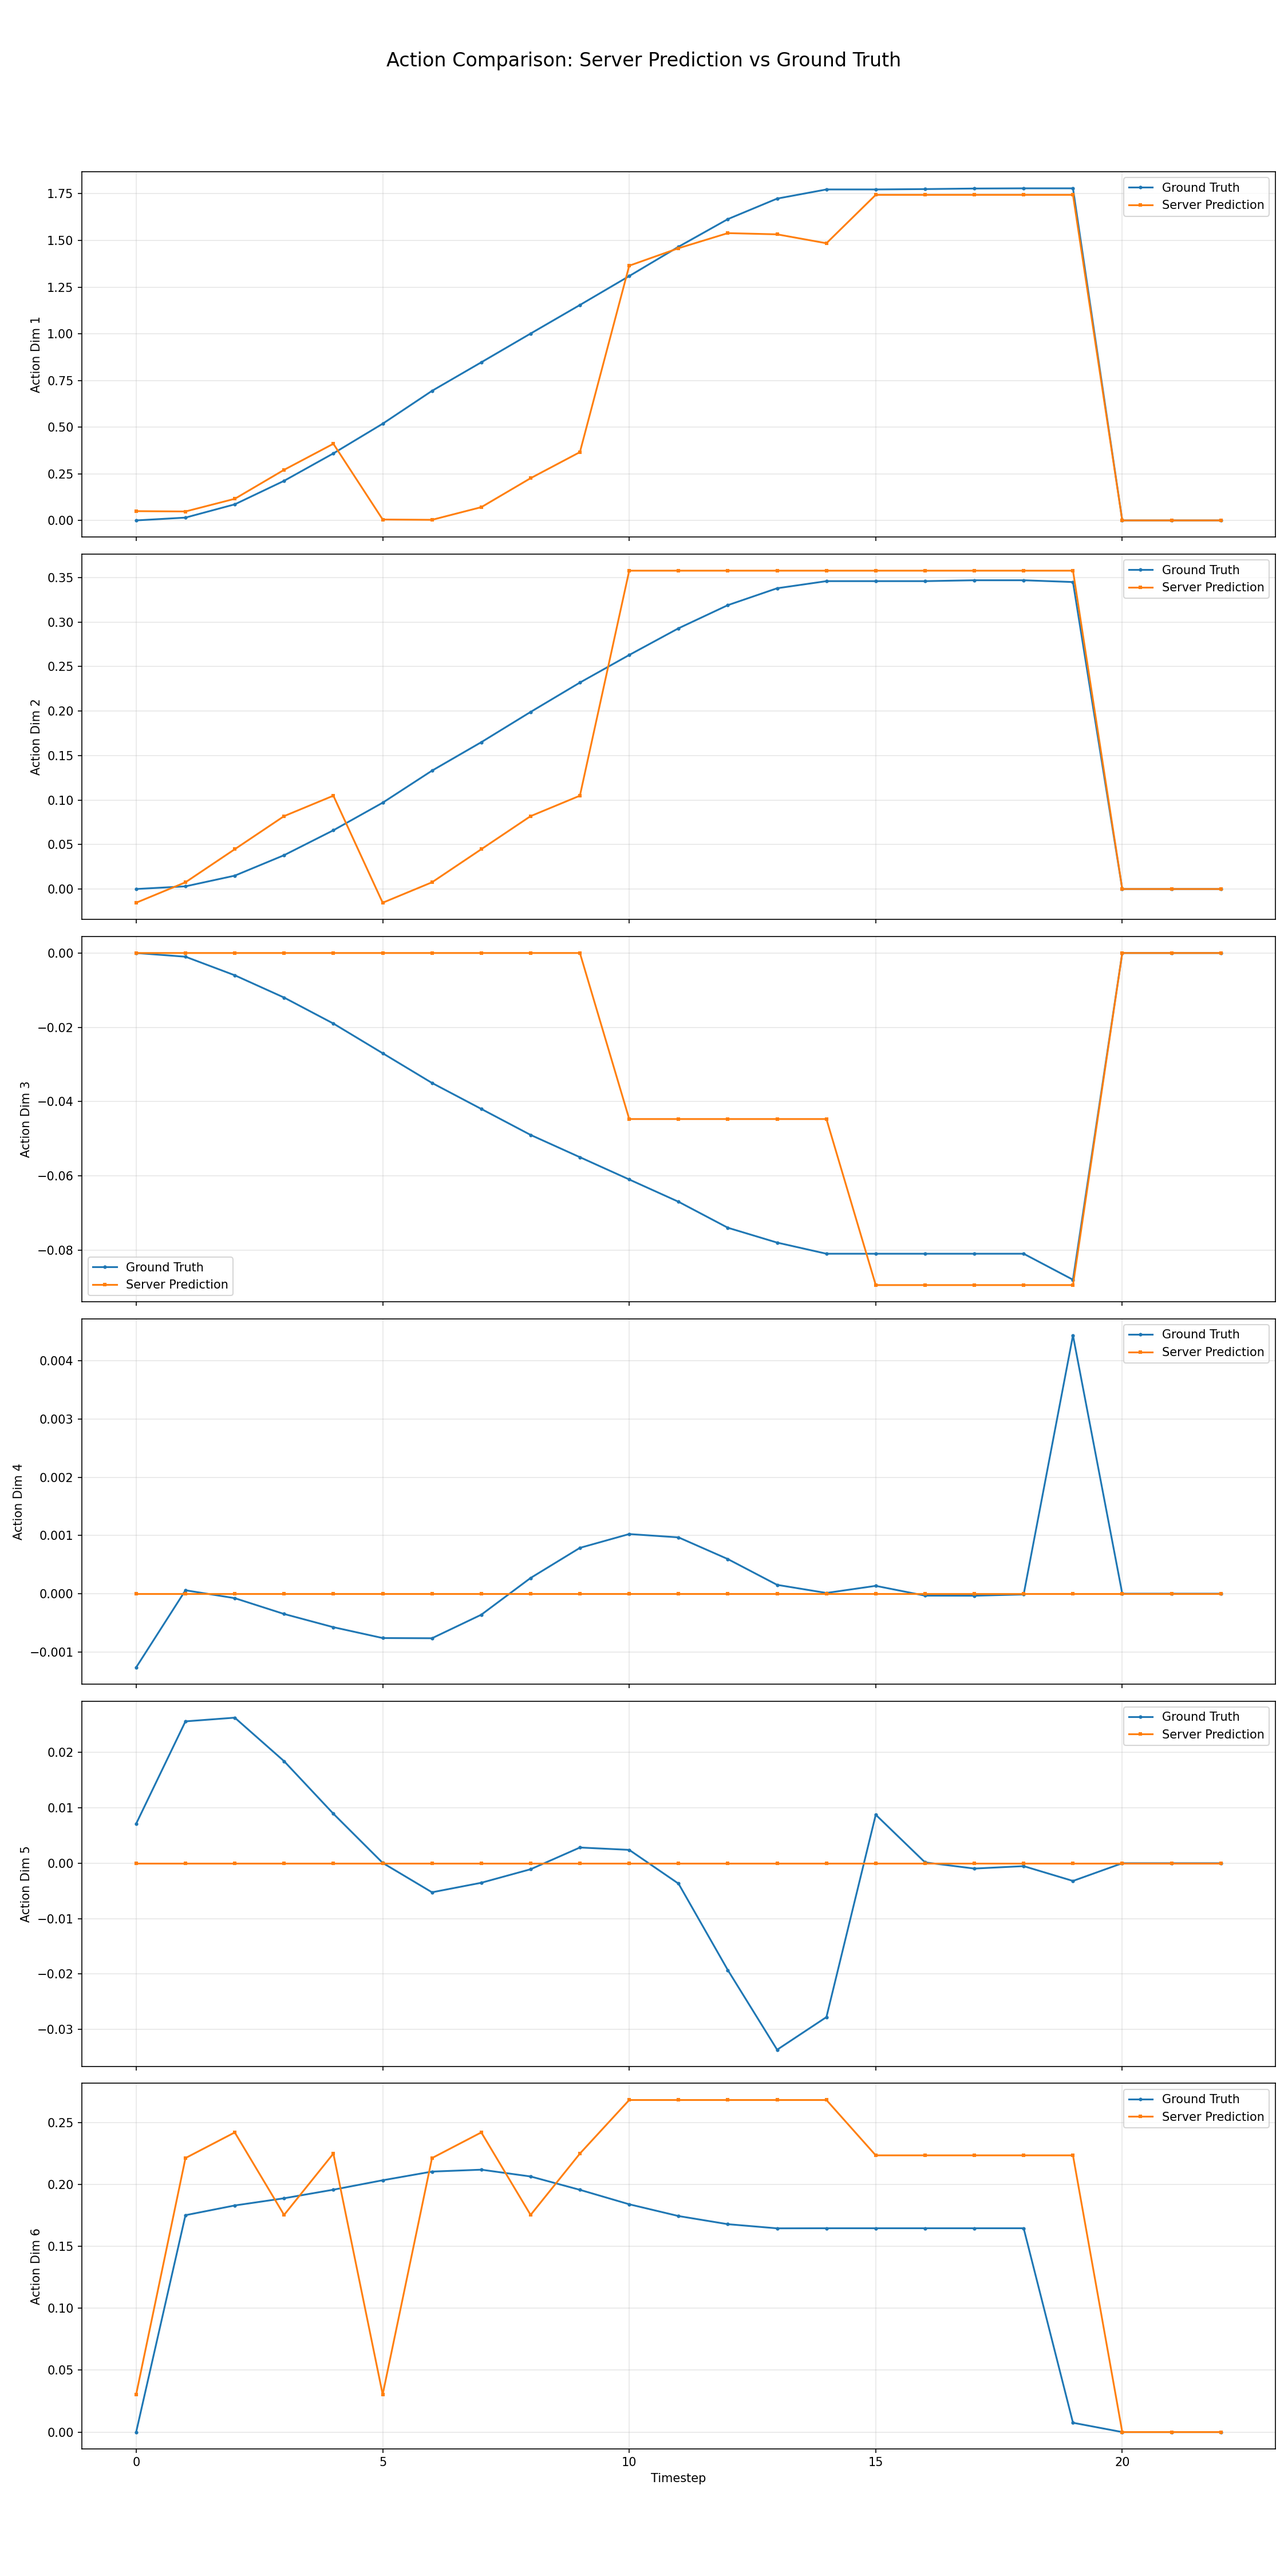
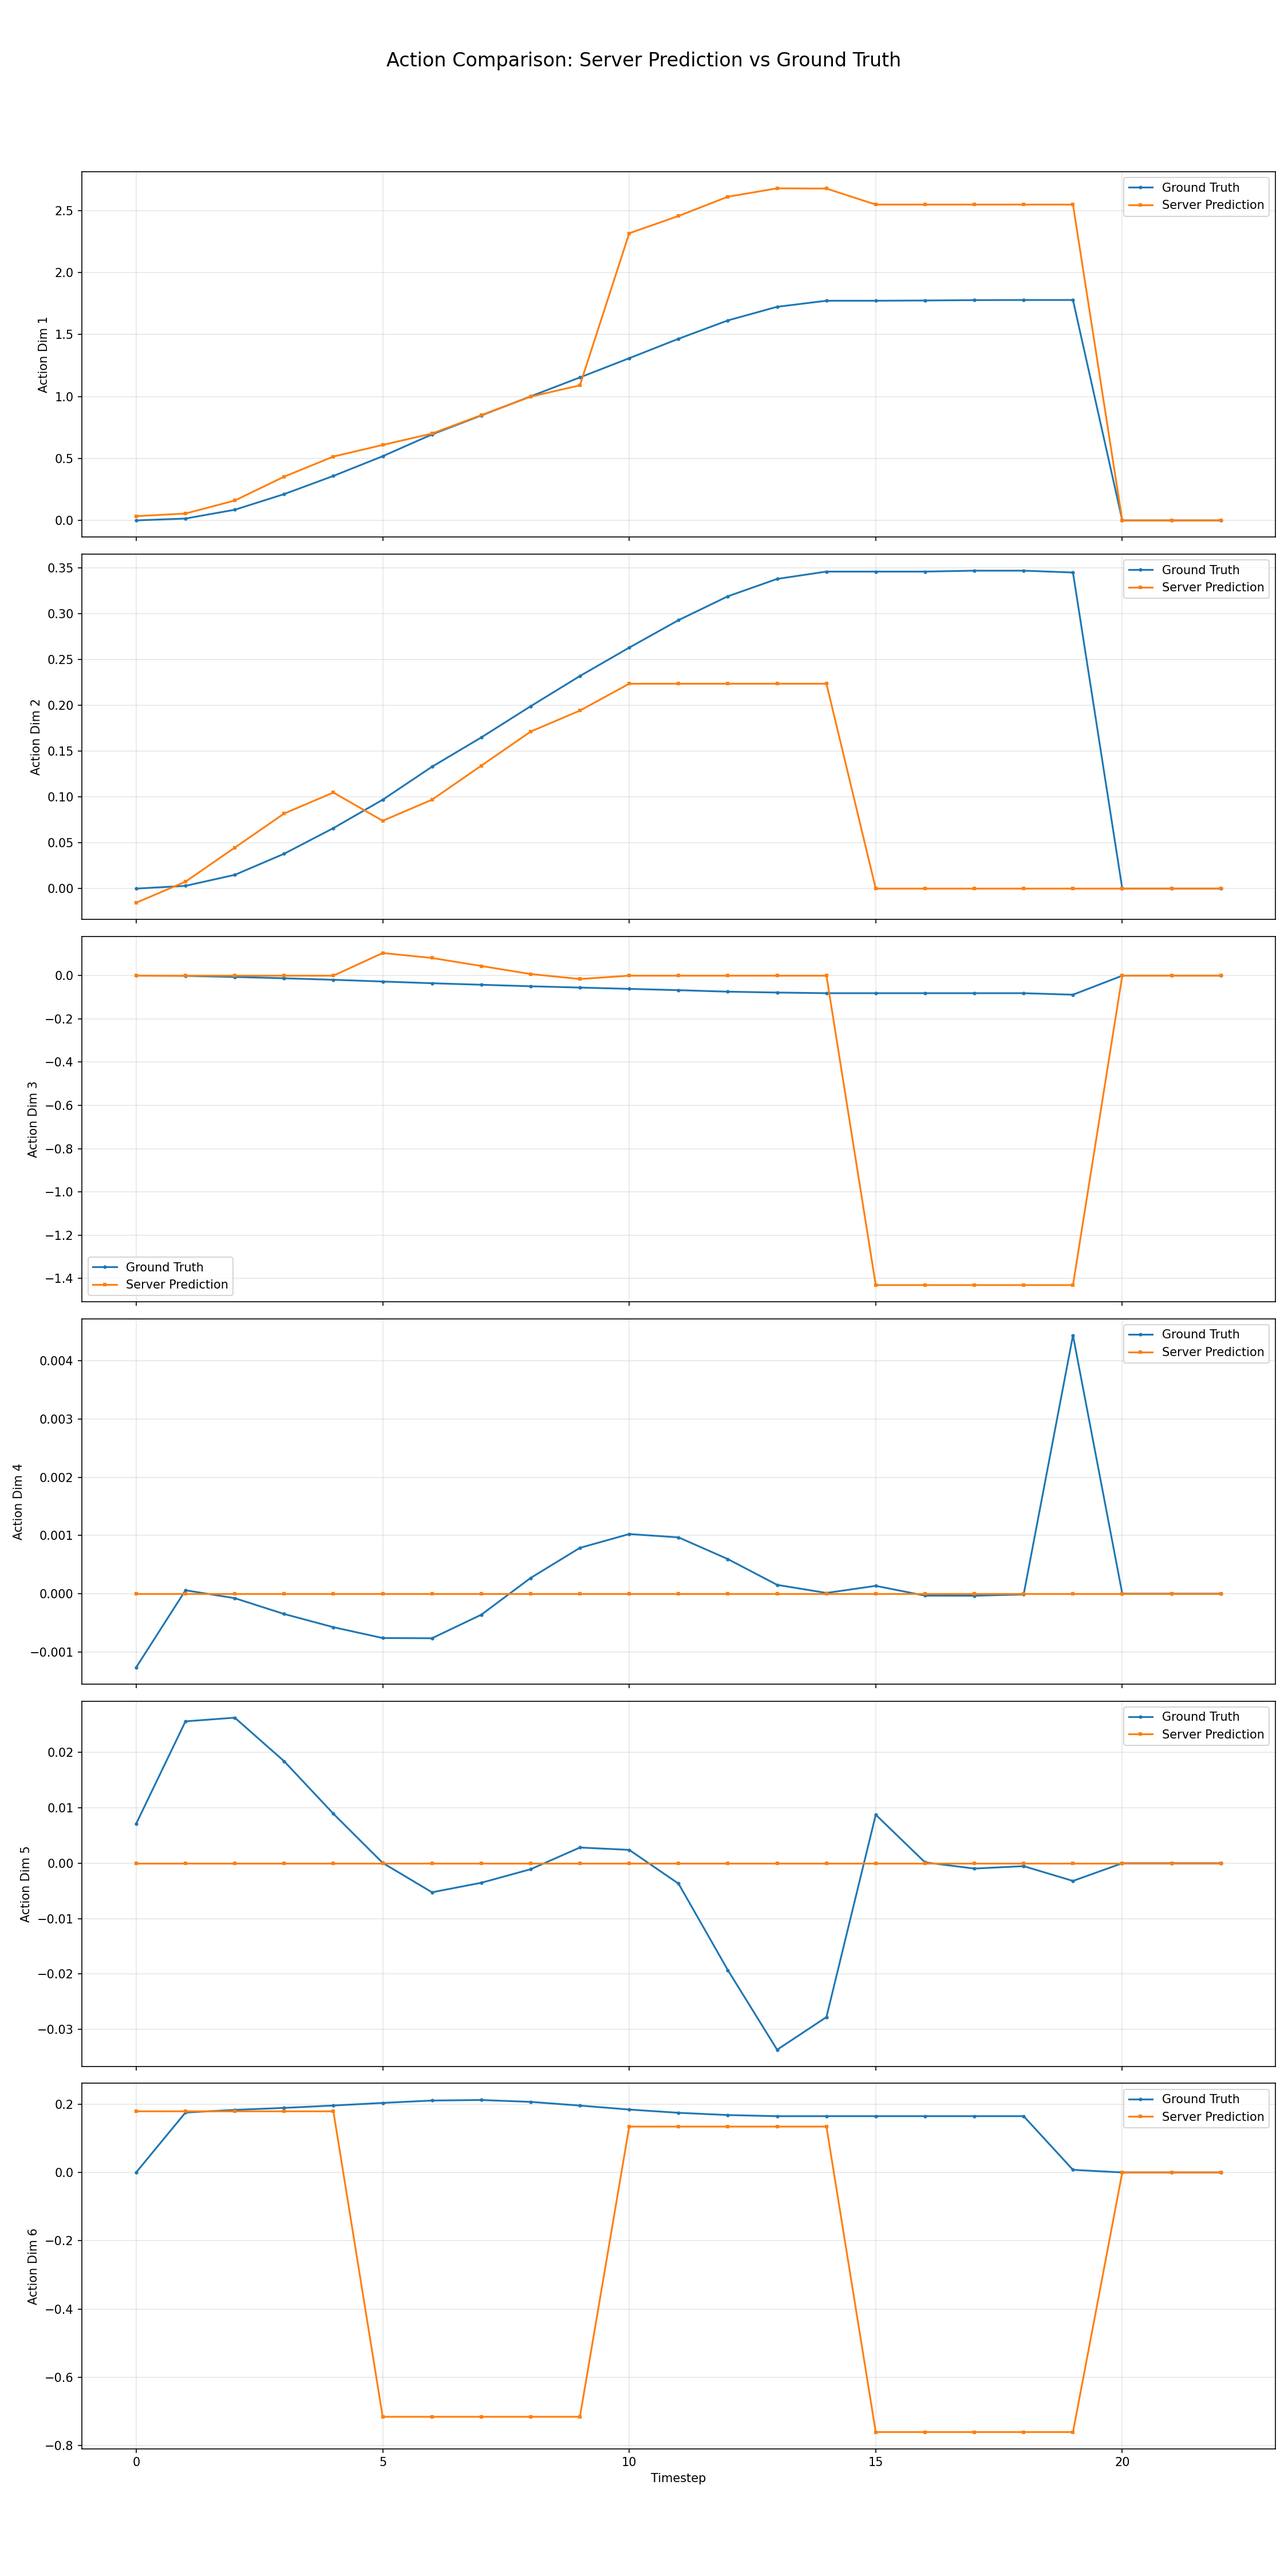
try to pull

diff --git a/scripts/draw_openloop_plot_wall-oss-fast-withMOE_forUAVtest.py b/scripts/draw_openloop_plot_wall-oss-fast-withMOE_forUAVtest.py
@@ -1,6 +1,6 @@
 import os
 import sys
-sys.path.insert(0, "/inspire/hdd/global_user/konghanlin-253108540238/new_wallx")
+sys.path.insert(0, "/mnt/diff-ali/workspace/wall-x")
 
 import yaml
 import torch
@@ -29,10 +29,10 @@ if __name__ == "__main__":
     origin_action_dim = args.origin_action_dim
     pred_horizon = args.pred_horizon
 
-    model_path = "/inspire/hdd/global_user/konghanlin-253108540238/new_wallx/wallx_pt/wall-oss-fast-MOE-tiny/2/processor"
-    action_tokenizer_path = "/inspire/hdd/global_user/konghanlin-253108540238/fast_tokenizer"
-    save_dir = "/inspire/hdd/global_user/konghanlin-253108540238/new_wallx/open_loop_figs/draw_openloop_plot_wall-oss-fast-MOE_forUAVtiny"
-    path = "/inspire/hdd/global_user/konghanlin-253108540238/new_wallx/workspace/lerobot_example/UAV_tiny/wall-oss_fast-withMOE/config_qact.yml"
+    model_path = "/mnt/diff-ali/workspace/wall-x/wallx_pt/walloss-fast-moe-for-sim/processor"
+    action_tokenizer_path = "/mnt/diff-ali/workspace/wall-x/fast-tokenizer"
+    save_dir = "/mnt/diff-ali/workspace/wall-x/open_loop_figs"
+    path = "/mnt/diff-ali/workspace/wall-x/workspace/lerobot_example/UAV_test/wall-oss_fast-withMOE/config_qact.yml"
     config = load_config(path)
 
     # load model with customized robot config
@@ -44,7 +44,7 @@ if __name__ == "__main__":
     # get test dataloader
     dataload_config = get_data_configs(config["data"])
     lerobot_config = dataload_config.get("lerobot_config", {})
-    dataset = load_test_dataset(config, lerobot_config, episode = list(range(2)),seed=42)
+    dataset = load_test_dataset(config, lerobot_config, episode = list(range(50)),seed=42)
     dataloader = dataset.get_dataloader()
 
     total_frames = len(dataloader)
@@ -56,7 +56,7 @@ if __name__ == "__main__":
 
     step = 0#表示循环中，现在处在第episode_index个episode中的第step步
     pic = 0
-    
+    begin_plot = 0#从第几步开始绘制
     CONST_ZERO_TENSOR = torch.tensor([0., 0., 0., 0., 0., 0., 0., 0., 0., 0.,
                                 0., 0., 0., 0., 0., 0., 0., 0., 0., 0.])
     
@@ -76,12 +76,12 @@ if __name__ == "__main__":
                 plt.title("XY Trajectory Comparison (lerobot)")
 
                 # Ground truth trajectory
-                plt.plot(gt_traj_np[5:step, 0], gt_traj_np[5:step, 1], '-o', label='Ground Truth', alpha=0.7)
+                plt.plot(gt_traj_np[begin_plot:step, 0], gt_traj_np[begin_plot:step, 1], '-o', label='Ground Truth', alpha=0.7)
                 # Predicted trajectory
-                plt.plot(pred_traj_np[5:step, 0], pred_traj_np[5:step, 1], '-o', label='Prediction', alpha=0.7)
+                plt.plot(pred_traj_np[begin_plot:step, 0], pred_traj_np[begin_plot:step, 1], '-o', label='Prediction', alpha=0.7)
 
                 # 标出编号（step index）
-                for i in range(5, step):
+                for i in range(begin_plot, step):
                     plt.text(gt_traj_np[i, 0], gt_traj_np[i, 1], str(i), fontsize=8, color='blue')
                     plt.text(pred_traj_np[i, 0], pred_traj_np[i, 1], str(i), fontsize=8, color='orange')
 
@@ -114,12 +114,15 @@ if __name__ == "__main__":
                     mode="predict",
                     predict_mode=predict_mode,
                 )
-                pred_traj[step : step + pred_horizon] = (
-                    outputs["predict_action"][:, :, :origin_action_dim]
-                    .detach()
-                    .cpu()
-                    .squeeze(0)
-                )
+                try: 
+                    pred_traj[step : step + pred_horizon] = (
+                        outputs["predict_action"][:, :, :origin_action_dim]
+                        .detach()
+                        .cpu()
+                        .squeeze(0)
+                    )
+                except :
+                    continue
                 
                 
                 

diff --git a/wall_x/serving/client.py b/wall_x/serving/client.py
@@ -6,7 +6,7 @@ This script demonstrates how to connect to a Wall-X server and request
 action predictions from observations in both sync and async contexts.
 """
 import sys
-sys.path.insert(0, "/home/bozhi/Desktop/wall-x")
+sys.path.insert(0, "/mnt/diff-ali/workspace/wall-x")
 
 import asyncio
 import logging
@@ -137,6 +137,7 @@ class WallXClient:
 
     def connect_sync(self):
         """Synchronously connect to server."""
+        print("3")
         return self._run_async(self.connect())
 
     def norm_state(
@@ -299,7 +300,9 @@ def main_sync(args):
 async def main(args):
     """Asynchronous version of main function."""
     client = WallXClient(args.config_path, uri=args.uri)
+    print("1")
     await client.connect()
+    print("2")
     dataset, repo_id = init_serving_sample_dataset(client.train_config)
 
     total_frames = len(dataset)
@@ -371,12 +374,12 @@ if __name__ == "__main__":
     )
     parser.add_argument(
         "--config_path",
-        default="/home/bozhi/Desktop/wall-x/workspace/lerobot_example/UAV_test/wall-oss_fast-noMOE/config_qact.yml",
+        default="/mnt/diff-ali/workspace/wall-x/workspace/lerobot_example/UAV_test/wall-oss_fast-withMOE/config_qact.yml",
         help="Train config path",
     )
     parser.add_argument(
         "--save_dir",
-        default="/home/bozhi/Desktop/wall-x/client_results",
+        default="/mnt/diff-ali/workspace/wall-x/client_results",
         help="Save directory for results",
     )
     args = parser.parse_args()

diff --git a/wall_x/serving/policy/wall_x_policy.py b/wall_x/serving/policy/wall_x_policy.py
@@ -157,15 +157,20 @@ class WallXPolicy(BasePolicy):
                     [1, self.pred_horizon, self.action_dim]
                 ).astype(np.float32)
 
-            predicted_actions = (
-                outputs["predict_action"][:, :, : self.action_dim]
-                .detach()
-                .cpu()
-                .to(torch.float32)
-                .numpy()
-            )
+            try:
+                predicted_actions = (
+                    outputs["predict_action"][:, :, : self.action_dim]
+                    .detach()
+                    .cpu()
+                    .to(torch.float32)
+                    .numpy()
+                )
+                print(predicted_actions.shape)
 
-            print(predicted_actions.shape)
+            except:
+                predicted_actions = None
+                print("predicted_actions是None")
+
             return {"action": predicted_actions}
 
         except Exception as e:

diff --git a/wall_x/serving/policy/utils.py b/wall_x/serving/policy/utils.py
@@ -95,7 +95,7 @@ def prepare_batch(
     formatted_text = format_text_with_vision_tokens(
         instruction, camera_key, predict_mode, pred_horizon
     )
-
+    print("formatted_text:", formatted_text)
     # Use processor to prepare inputs
     inputs = preprocesser_call(
         processor=processor,
@@ -255,12 +255,12 @@ def format_text_with_vision_tokens(
     user_request += "\nInstruction:"
 
     text_prompt = (
-        f"\nPredict the next action in robot action.\nProprioception: {propri_symbol}\n"
+        f"\nProprioception: {propri_symbol}\n"
     )
     user_message = f"{user_request} {instruction}{text_prompt}{role_end_symbol}\n"
     assistant_output = f"{role_start_symbol}assistant\n"
     if predict_mode == "diffusion":
         assistant_output += f"{action_symbol * pred_horizon}"
     complete_text = prologue + user_message + assistant_output
-
+    
     return complete_text

diff --git a/wall_x/data/load_lerobot_dataset.py b/wall_x/data/load_lerobot_dataset.py
@@ -91,7 +91,7 @@ class PreprocessedDataset(Dataset[T_co]):
             from PIL import Image
 
             current_obs = frames[key].clone().permute(1, 2, 0)
-            print("current_obs shape:", current_obs.shape)
+            # print("current_obs shape:", current_obs.shape)
             img_pil = Image.fromarray((current_obs * 255).to(torch.uint8).cpu().numpy())
             orig_width, orig_height = img_pil.size
             print(f"Original image size for {key}: ({orig_width}, {orig_height})")
@@ -150,6 +150,7 @@ class PreprocessedDataset(Dataset[T_co]):
             bbox = data["bbox"],
             grasp=data["grasp"],
         )
+        print("complete_text:",complete_text)
         text = process_grounding_points(
             complete_text, h, w, resize_h, resize_w, self.data_config.model_type
         )

diff --git a/wall_x/data/utils.py b/wall_x/data/utils.py
@@ -225,6 +225,8 @@ def preprocesser_call(
             text[i] = text[i].replace("<|placeholder|>", "<|video_pad|>")
 
     # Tokenize complete input text
+    print("len(text):",len(text))
+    print("text:", text)
     text_inputs = processor.tokenizer(
         text,
         return_tensors=return_tensors,
@@ -232,7 +234,7 @@ def preprocesser_call(
         truncation=truncation,
         max_length=max_length,
     )
-
+    print("text_inputs:", text_inputs)
     # Get pad token ID for label generation
     pad_token_id = processor.tokenizer.pad_token_id
     if pad_token_id is None:

diff --git a/wall_x/serving/launch_serving.py b/wall_x/serving/launch_serving.py
@@ -12,7 +12,7 @@ python -m wall_x.serving.launch_serving   --port 8000   --host 0.0.0.0   model-c
 """
 
 import sys
-sys.path.insert(0, "/home/bozhi/Desktop/wall-x")
+sys.path.insert(0, "/mnt/diff-ali/workspace/wall-x")
 import dataclasses
 from dataclasses import field
 import enum

diff --git a/wall_x/serving/README.md b/wall_x/serving/README.md
@@ -69,6 +69,19 @@ python -m wall_x.serving.launch_serving \
     --model-config.pred-horizon 5
 
 
+
+
+python -m wall_x.serving.launch_serving \
+  --port 8000 \
+  --host 0.0.0.0 \
+  model-config:model-config \
+    --model-config.model-path "/mnt/diff-ali/workspace/wall-x/wallx_pt/walloss-fast-moe-for-sim/processor" \
+    --model-config.action-tokenizer-path "/mnt/diff-ali/workspace/wall-x/fast-tokenizer" \
+    --model-config.train-config-path "/mnt/diff-ali/workspace/wall-x/workspace/lerobot_example/UAV_test/wall-oss_fast-withMOE/config_qact.yml" \
+    --model-config.action-dim 6 \
+    --model-config.state-dim 6 \
+    --model-config.camera-key face_view first_face_view \
+    --model-config.pred-horizon 5
 ```
 
 ## Command Line Arguments
